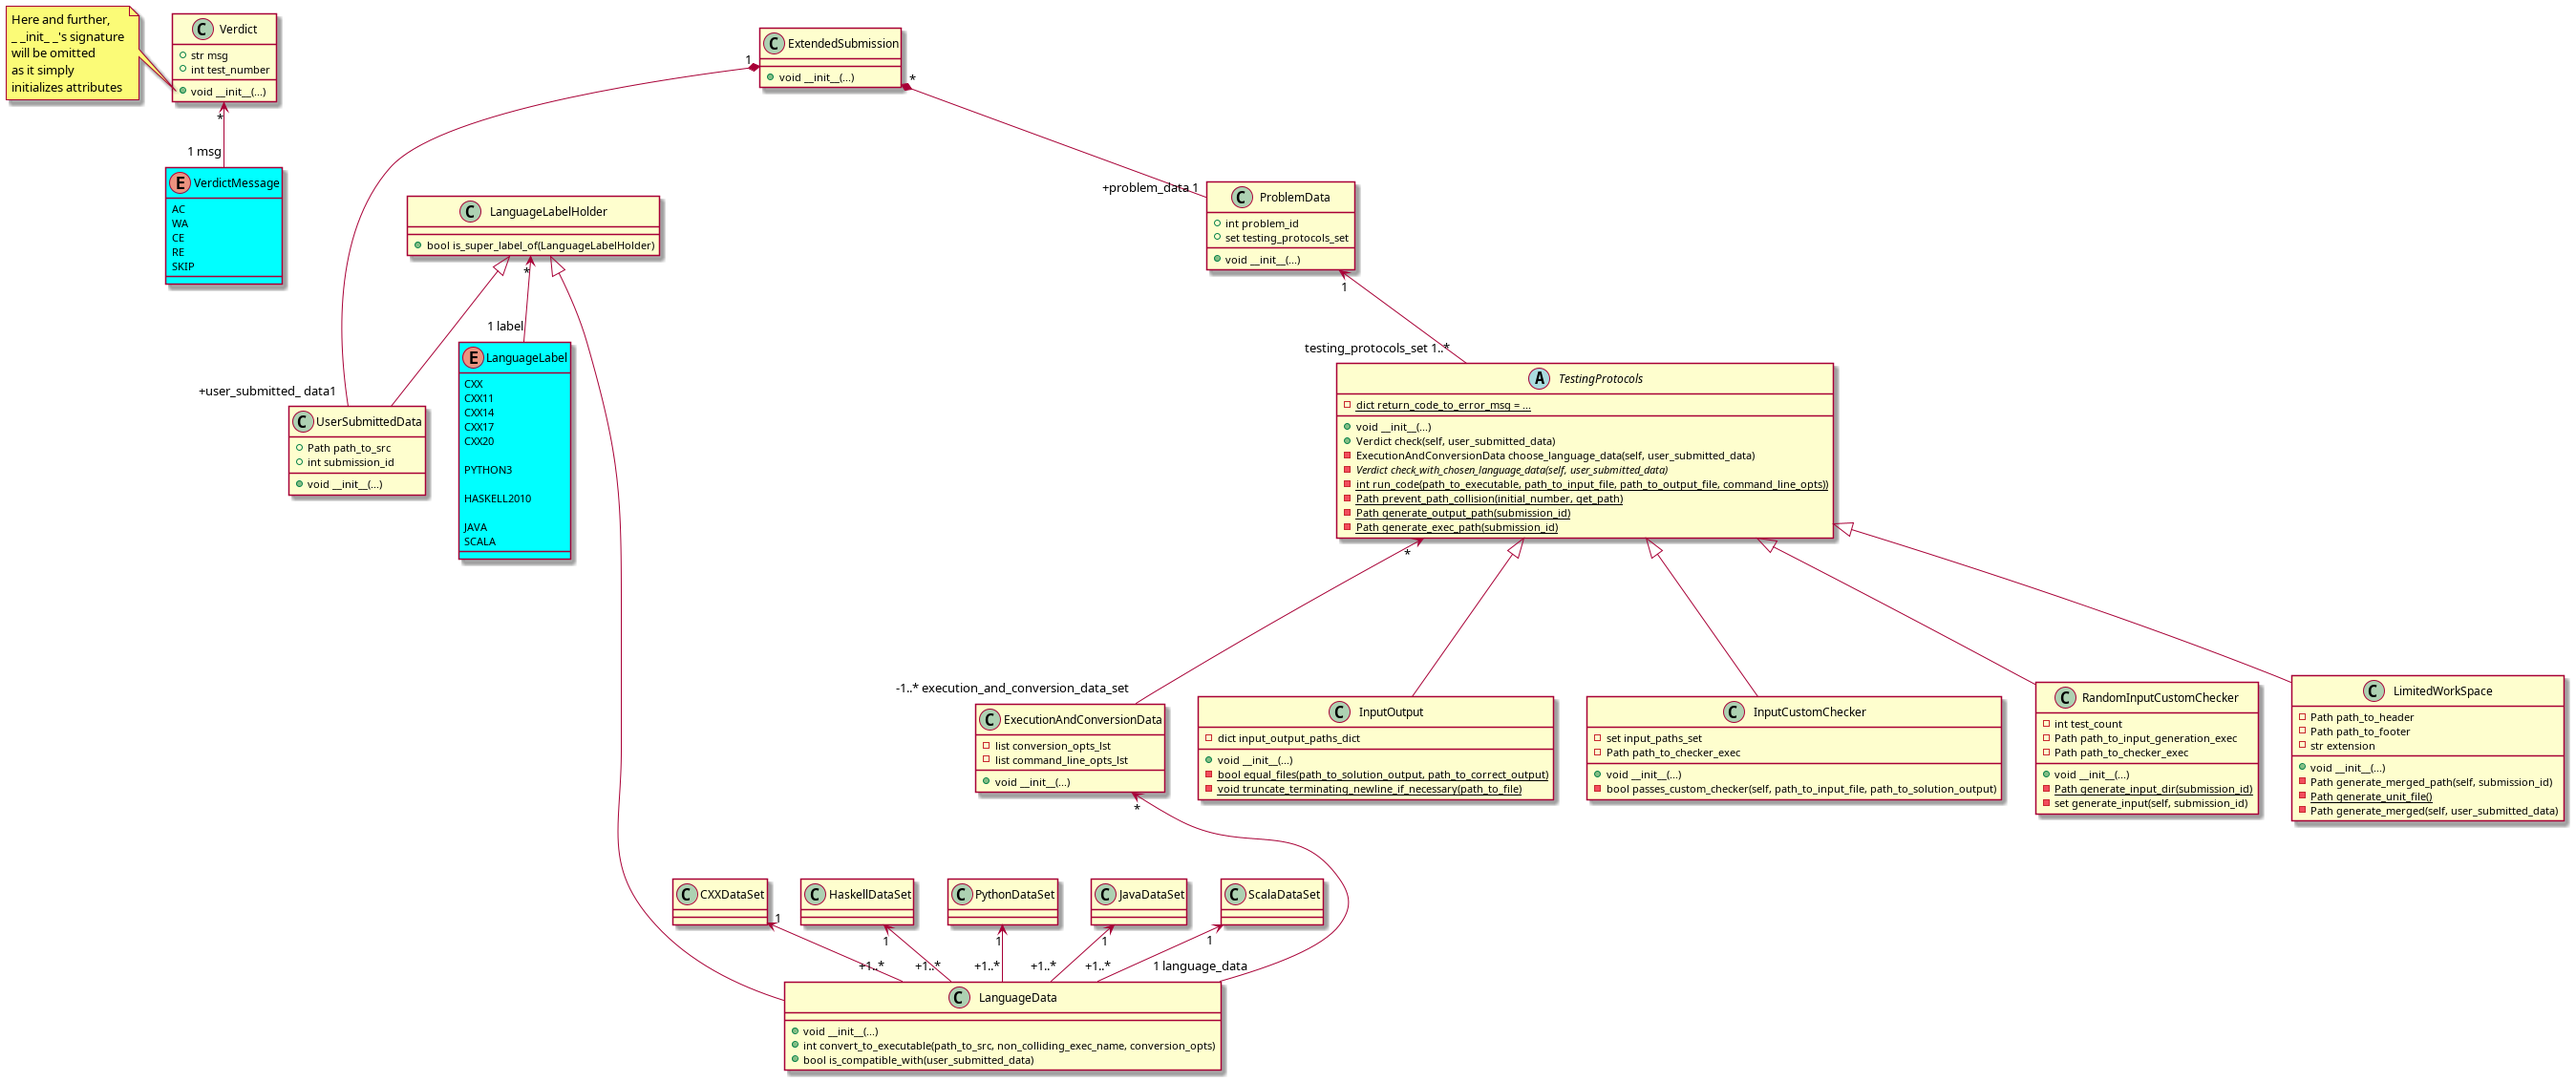
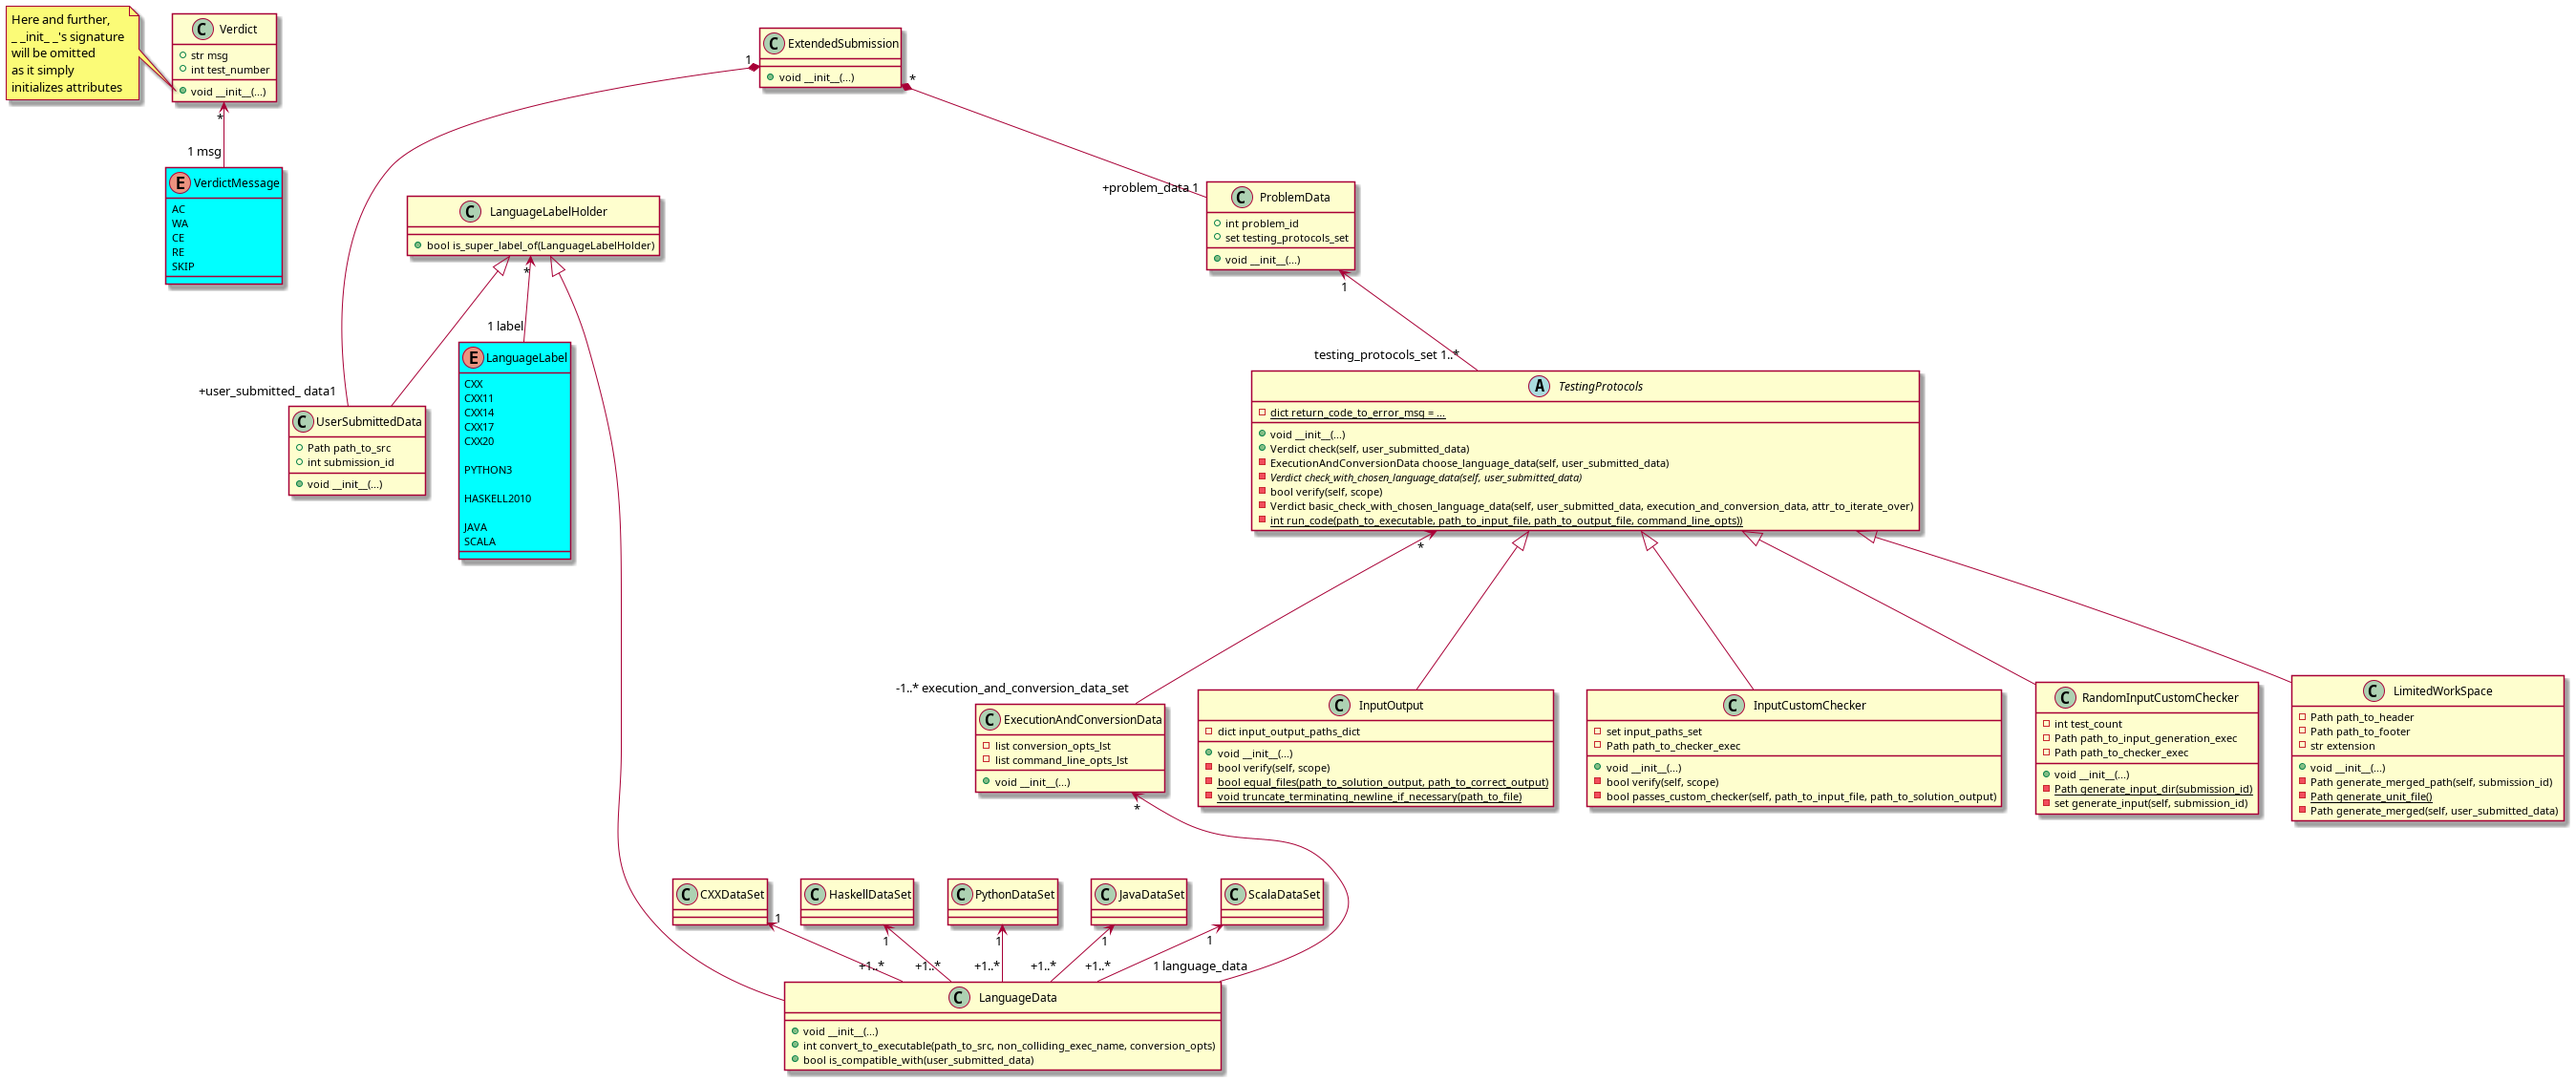
Got rid of inout-cust copy&paste (check_with_chosen_language_data)

Changed region(s): [[0.4672, 0.3089, 0.7475, 0.5252], [0.4672, 0.6178, 0.7786, 0.7723]]

diff --git a/TestingSystem/TestingProtocols/testing_protocols/__init__.py b/TestingSystem/TestingProtocols/testing_protocols/__init__.py
@@ -60,6 +60,50 @@ class TestingProtocol(ABC):
     def check_with_chosen_language_data(self, user_submitted_data, execution_and_conversion_data):
         pass
 
+    def verify(self, scope):
+        pass
+
+    def basic_check_with_chosen_language_data(
+            self,
+            user_submitted_data,
+            execution_and_conversion_data,
+            attr_to_iterate_over
+    ):
+        with tempfile.NamedTemporaryFile() as executable:
+            executable.file.close()
+            path_to_executable = executable.name
+
+            conversion_return_code = execution_and_conversion_data.convert_to_executable(
+                                        user_submitted_data.path_to_src,
+                                        path_to_executable,
+                                        execution_and_conversion_data.conversion_opts
+            )
+
+            if conversion_return_code != 0:
+                return Verdict(VerdictMessage.CE, -1)
+
+            with tempfile.NamedTemporaryFile() as solution_output:
+                path_to_solution_output = solution_output.name
+
+                # ITERATE OVER TESTS
+                for test, path_to_input_file in enumerate(attr_to_iterate_over):
+                    # RUN
+                    feedback = TestingProtocol.run_code(
+                        path_to_executable=path_to_executable,
+                        path_to_input_file=path_to_input_file,
+                        path_to_solution_output=path_to_solution_output,
+                        command_line_opts=execution_and_conversion_data.command_line_opts)
+                    if feedback != 0:
+                        return Verdict(VerdictMessage.RE, test)
+
+                    # CHECK
+                    if not self.verify(locals()):
+                        return Verdict(VerdictMessage.WA, test)
+
+                    test += 1
+
+        return Verdict(VerdictMessage.AC, -1)
+
     def choose_language_data(self, user_submitted_data):
         for execution_and_conversion_data in self.execution_and_conversion_data_set:
             if execution_and_conversion_data.is_super_label_of(user_submitted_data):
@@ -116,41 +160,17 @@ class InputOutput(TestingProtocol):
                                path_to_solution_output,
                                path_to_correct_output]).returncode == 0
 
+    def verify(self, scope):
+        path_to_solution_output = scope['path_to_solution_output']
+        path_to_input_file = scope['path_to_input_file']
+        return InputOutput.equal_files(path_to_solution_output, self.input_output_paths_dict[path_to_input_file])
+
     def check_with_chosen_language_data(self, user_submitted_data, execution_and_conversion_data):
-        with tempfile.NamedTemporaryFile() as executable:
-            executable.file.close()
-            path_to_executable = executable.name
-
-            conversion_return_code = execution_and_conversion_data.convert_to_executable(
-                                        user_submitted_data.path_to_src,
-                                        path_to_executable,
-                                        execution_and_conversion_data.conversion_opts
-            )
-
-            if conversion_return_code != 0:
-                return Verdict(VerdictMessage.CE, -1)
-
-            with tempfile.NamedTemporaryFile() as solution_output:
-                path_to_solution_output = solution_output.name
-
-                # ITERATE OVER TESTS
-                for test, path_to_input_file in enumerate(self.input_output_paths_dict):
-                    # RUN
-                    feedback = TestingProtocol.run_code(
-                        path_to_executable=path_to_executable,
-                        path_to_input_file=path_to_input_file,
-                        path_to_solution_output=path_to_solution_output,
-                        command_line_opts=execution_and_conversion_data.command_line_opts)
-                    if feedback != 0:
-                        return Verdict(VerdictMessage.RE, test)
-
-                    # CHECK
-                    if not InputOutput.equal_files(path_to_solution_output, self.input_output_paths_dict[path_to_input_file]):
-                        return Verdict(VerdictMessage.WA, test)
-
-                    test += 1
-
-        return Verdict(VerdictMessage.AC, -1)
+        return self.basic_check_with_chosen_language_data(
+            user_submitted_data=user_submitted_data,
+            execution_and_conversion_data=execution_and_conversion_data,
+            attr_to_iterate_over=self.input_output_paths_dict
+        )
 
 
 class InputCustomChecker(TestingProtocol):  # todo: checker safety
@@ -167,42 +187,18 @@ class InputCustomChecker(TestingProtocol):  # todo: checker safety
         return int(subprocess.run([self.path_to_checker_exec, path_to_input_file, path_to_solution_output],
                                   stdout=subprocess.PIPE).stdout.decode('utf-8')) == 1
 
+    def verify(self, scope):
+        path_to_input_file = scope['path_to_input_file']
+        path_to_solution_output = scope['path_to_solution_output']
+
+        return self.passes_custom_checker(path_to_input_file, path_to_solution_output)
+
     def check_with_chosen_language_data(self, user_submitted_data, execution_and_conversion_data):
-        with tempfile.NamedTemporaryFile() as executable:
-            executable.file.close()
-            path_to_executable = executable.name
-
-            conversion_return_code = execution_and_conversion_data.convert_to_executable(
-                                    user_submitted_data.path_to_src,
-                                    path_to_executable,
-                                    execution_and_conversion_data.conversion_opts
-            )
-
-            if conversion_return_code != 0:
-                return Verdict(VerdictMessage.CE, -1)
-
-            with tempfile.NamedTemporaryFile() as solution_output:
-                path_to_solution_output = solution_output.name
-
-                # ITERATE OVER TESTS
-                for test, path_to_input_file in enumerate(self.input_paths_set):
-                    # RUN
-                    feedback = TestingProtocol.run_code(
-                        path_to_executable=path_to_executable,
-                        path_to_input_file=path_to_input_file,
-                        path_to_solution_output=path_to_solution_output,
-                        command_line_opts=execution_and_conversion_data.command_line_opts
-                    )
-                    if feedback != 0:
-                        return Verdict(VerdictMessage.RE, test)
-
-                    # CHECK
-                    if not self.passes_custom_checker(path_to_input_file, path_to_solution_output):
-                        return Verdict(VerdictMessage.WA, test)
-
-                    test += 1
-
-        return Verdict(VerdictMessage.AC, -1)
+        return self.basic_check_with_chosen_language_data(
+            user_submitted_data=user_submitted_data,
+            execution_and_conversion_data=execution_and_conversion_data,
+            attr_to_iterate_over=self.input_paths_set
+        )
 
 
 class RandomInputCustomChecker(TestingProtocol):
